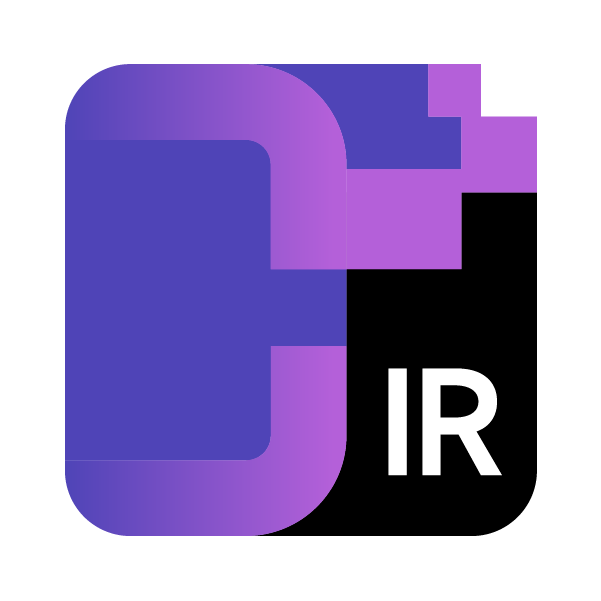
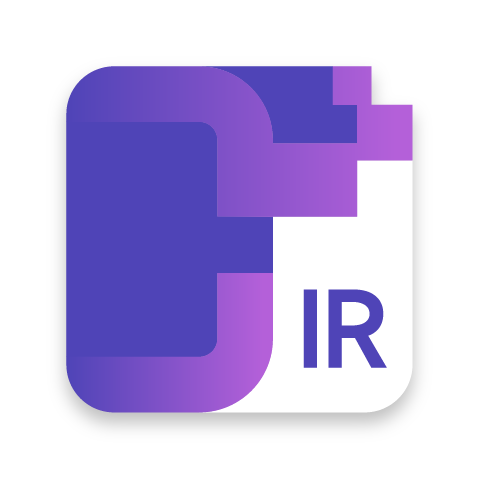
style: 图标替换

Changed region(s): [[0.0877, 0.0879, 0.9061, 0.9079], [0.2338, 0.7322, 0.4676, 0.7908]]

diff --git a/app/renderer/src/main/src/pages/softwareSettings/SoftwareSettings.tsx b/app/renderer/src/main/src/pages/softwareSettings/SoftwareSettings.tsx
@@ -15,7 +15,7 @@ import yakitSEProject from "@/assets/yakitFontSE.png"
 import yakitSSProject from "@/assets/yakitFontSS.png"
 import yakitEEMiniProject from "@/assets/yakitEE.png"
 import yakitSEMiniProject from "@/assets/yakitSE.png"
-import yakitSSMiniProject from "@/assets/yakitSS.png"
+import yakitSSMiniProject from "@/assets/yakitMiniSS.png"
 
 const ProjectManage = React.lazy(() => import("./ProjectManage"))
 

diff --git a/app/renderer/src/main/src/pages/yakRunnerAuditCode/RunnerTabs/RunnerTabs.tsx b/app/renderer/src/main/src/pages/yakRunnerAuditCode/RunnerTabs/RunnerTabs.tsx
@@ -28,7 +28,7 @@ import {
     OutlineSplitScreenIcon,
     OutlineXIcon
 } from "@/assets/icon/outline"
-import yakitSSMiniProject from "@/assets/yakitSS.png"
+import yakitSSMiniProject from "@/assets/yakitMiniSS.png"
 import {YakRunnerOpenAuditIcon, YakRunnerOpenFileIcon} from "@/pages/yakRunner/icon"
 import {YakitEditor} from "@/components/yakitUI/YakitEditor/YakitEditor"
 import {
